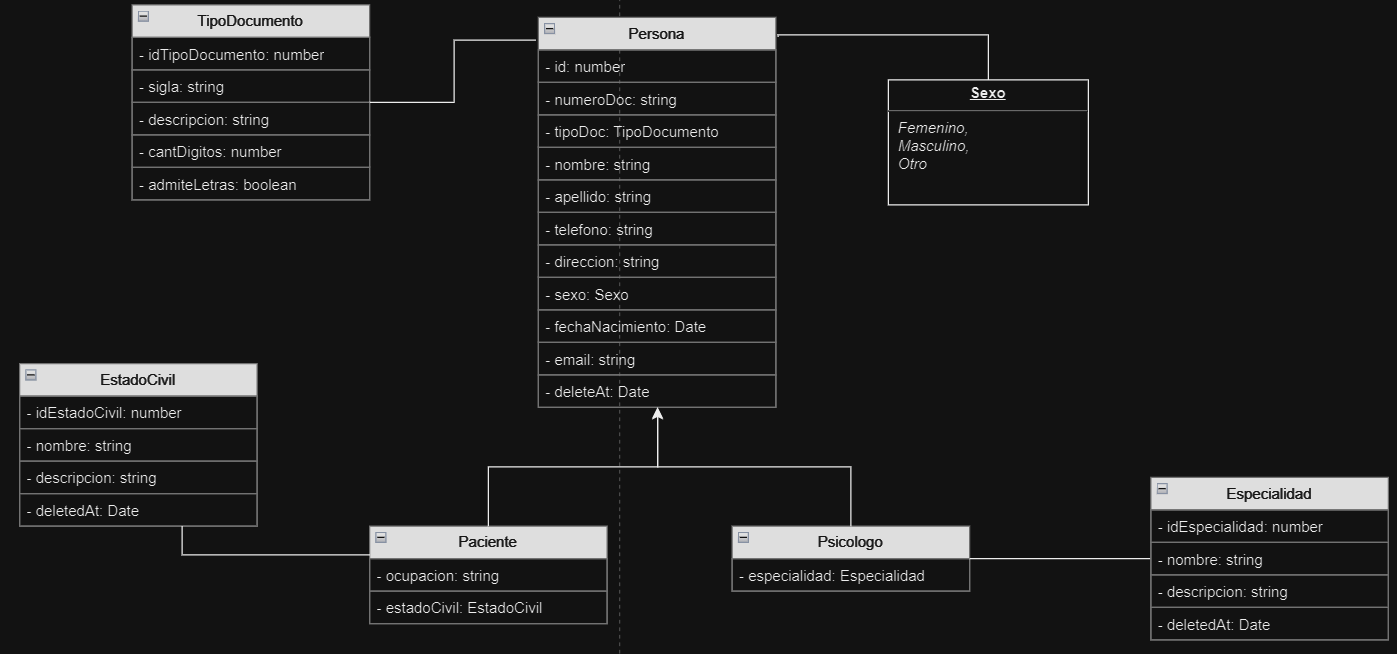
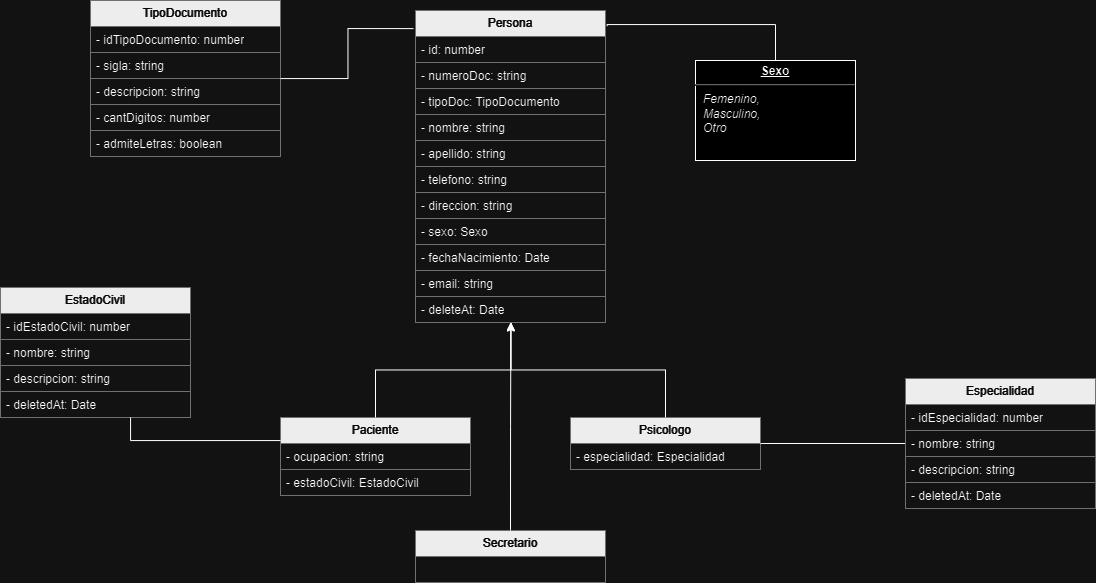
Actualizacion requisitos iteracion 1 y 2

diff --git a/docs/Especificacion_de_Requerimientos.md b/docs/Especificacion_de_Requerimientos.md
@@ -271,20 +271,20 @@ Ninguno
 
 ---
 
-### UC–04 - Consultar Paciente
+### UC–04 - Consultar Pacientes
 
-| UC–04  | Consultar Paciente | |
+| UC–04  | Consultar Pacientes | |
 |--------|--------------------|----|
 | **Objetivos asociados** | - OBJ02-Gestionar pacientes |
 | **Requisitos asociados** | IRQ–01 Información sobre pacientes |
-| **Descripción** | Permite consultar la información de un paciente |
-| **Precondición** | El usuario tiene acceso al sistema y los datos necesarios del paciente |
+| **Descripción** | Permite consultar la información de los pacientes |
+| **Precondición** | El secretario tiene acceso al sistema |
 | **Flujo Principal** | **Paso** | **Acción** |
-| | 1 | El usuario selecciona al paciente a consultar |
-| | 2 | El sistema muestra la información detallada del paciente |
-| **Postcondición** | La información del paciente es visualizada por el usuario |
+| | 1 | El secretario solicita al sistema la lista de los pacientes que estan registrados en el sistema. |
+| | 2 | El sistema le proporciona los datos obtenidos. |
+| **Postcondición** | Los distintos pacientes que estan registrados en el sistema son listados para el usuario. |
 | **Flujo Alternativo** | **Paso** | **Acción** |
-| | 1a | Si el paciente no está registrado, el sistema muestra un mensaje de error |
+| | 2 | El sistema avisa que no se encontraron datos de acuerdo al criterio seleccionado; y solicita que se modifique. En caso contrario, el caso de uso queda sin efecto. |
 | **Rendimiento** | **Paso** | **Cota de tiempo** |
 | | 2 | 1 segundo |
 | **Frecuencia** | 10 veces/día |
@@ -292,6 +292,98 @@ Ninguno
 | **Comentarios** | La consulta de información de pacientes está disponible solo para usuarios autorizados |
 
 ---
+### UC-22 - Registrar Secretario
+
+| UC–22  | Registrar Secretario | |
+|--------|--------------------|----|
+| **Objetivos asociados** | OBJ06-Gestionar Secretario |
+| **Requisitos asociados** | IRQ–03 Información sobre secretario |
+| **Descripción** | Permite registrar un nuevo secretario en el sistema |
+| **Precondición** | El piscologo tiene acceso al sistema y los datos necesarios del secretario |
+| **Flujo Principal** | **Paso** | **Acción** |
+| | 1 | El piscologo ingresa los datos del secretario (nombre, apellido, documento, dirección, teléfono, etc.) |
+| | 2 | El sistema valida los datos ingresados |
+| | 3 | El sistema registra al secretario y confirma el registro |
+| **Postcondición** | El secretario pasa a estar registrado en el sistema |
+| **Flujo Alternativo** | **Paso** | **Acción** |
+| | 3 | Si los datos ingresados no son válidos, el sistema muestra un mensaje de error y permite corregirlos |
+| **Rendimiento** | **Paso** | **Cota de tiempo** |
+| | 3 | 2 segundos |
+| **Frecuencia** | 10 veces/día |
+| **Estabilidad** | alta |
+| **Comentarios** | Si hay algún error en los datos, el sistema permite corregirlos y reintentar el registro |
+
+---
+
+### UC–23 - Modificar Secretario
+
+| UC–23  | Modificar Secretario | |
+|--------|--------------------|----|
+| **Objetivos asociados** | OBJ06-Gestionar Secretario |
+| **Requisitos asociados** | IRQ–03 Información sobre secretario |
+| **Descripción** | Permite modificar la información de un secretario existente |
+| **Precondición** | El piscologo tiene acceso al sistema y los datos necesarios del secretario |
+| **Flujo Principal** | **Paso** | **Acción** |
+| | 1 | El piscologo selecciona al secretario a modificar |
+| | 2 | El sistema muestra los datos actuales del secretario |
+| | 3 | El piscologo modifica los datos necesarios |
+| | 4 | El sistema valida los nuevos datos |
+| | 5 | El sistema actualiza la información del secretario y confirma la modificación |
+| **Postcondición** | Los datos del secretario están actualizados en el sistema |
+| **Flujo Alternativo** | **Paso** | **Acción** |
+| | 5 | Si los datos ingresados no son válidos, el sistema muestra un mensaje de error y permite corregirlos |
+| **Rendimiento** | **Paso** | **Cota de tiempo** |
+| | 5 | 2 segundos |
+| **Frecuencia** | 5 veces/día |
+| **Estabilidad** | alta |
+| **Comentarios** | Si hay algún error en los datos, el sistema permite corregirlos y reintentar la modificación |
+
+---
+
+### UC–25 - Eliminar Secretario
+
+| UC–25  | Eliminar Secretario | |
+|--------|-------------------|----|
+| **Objetivos asociados** | OBJ06-Gestionar Secretario |
+| **Requisitos asociados** | IRQ–03 Información sobre secretario |
+| **Descripción** | Permite dar de baja lógicamente a un secretario del sistema |
+| **Precondición** | El piscologo tiene acceso al sistema y los datos necesarios del secretario |
+| **Flujo Principal** | **Paso** | **Acción** |
+| | 1 | El piscologo selecciona al secretario a eliminar |
+| | 2 | El sistema solicita confirmación para eliminar al secretario |
+| | 3 | El piscologo confirma la eliminación |
+| | 4 | El sistema elimina al secretario y confirma la eliminación |
+| **Postcondición** | El secretario está eliminado del sistema |
+| **Flujo Alternativo** | **Paso** | **Acción** |
+| | 2a | Si el piscologo no confirma la eliminación, el secretario no es eliminado |
+| **Rendimiento** | **Paso** | **Cota de tiempo** |
+| | 4 | 1 segundo |
+| **Frecuencia** | 1 vez/día |
+| **Estabilidad** | alta |
+| **Comentarios** | Si el paciente es eliminado, toda su información es archivada y no se puede acceder a ella a menos que sea reactivada |
+
+---
+
+### UC–24 - Consultar Secretarios
+
+| UC–24  | Consultar Secretarios | |
+|--------|--------------------|----|
+| **Objetivos asociados** | OBJ06-Gestionar Secretario |
+| **Requisitos asociados** | IRQ–03 Información sobre secretario |
+| **Descripción** | Permite consultar la información de los secretarios |
+| **Precondición** | El Psicólogo tiene acceso al sistema |
+| **Flujo Principal** | **Paso** | **Acción** |
+| | 1 | El Psicólogo solicita al sistema la lista de los secretarios que estan registrados en el sistema. |
+| | 2 | El sistema le proporciona los datos obtenidos. |
+| **Postcondición** | Los distintos secretarios que estan registrados en el sistema son listados para el usuario. |
+| **Flujo Alternativo** | **Paso** | **Acción** |
+| | 2 | El sistema avisa que no se encontraron datos de acuerdo al criterio seleccionado; y solicita que se modifique. En caso contrario, el caso de uso queda sin efecto. |
+| **Rendimiento** | **Paso** | **Cota de tiempo** |
+| | 2 | 1 segundo |
+| **Frecuencia** | 10 veces/día |
+| **Estabilidad** | alta |
+| **Comentarios** | La consulta de información de secretarios está disponible solo para usuarios autorizados |
+
 
 ---
 ### UC–35 - Alta de Tipo de Documento
@@ -426,16 +518,16 @@ Ninguno
 ---
 ## Matriz de Rastreabilidad Objetivo/Requisitos
 
-| OBJ/IRQ                 | **OBJ01-Gestión de Psicólogos** | **OBJ02-Gestion de Pacientes** | **OBJ04-Gestionar Parámetros de Sistema** | **OBJ05-Gestionar Seguridad** |
+| OBJ/IRQ                 | **OBJ02-Gestionar Pacientes** | **OBJ04-Gestionar Parámetros de Sistema** | **OBJ05-Gestionar Seguridad** | **OBJ06-Gestionar Secretarios**|
 |:--------------------------|:------------------------:|:------------------------:|:------------------------:|:------------------------:|
-| **IRQ 01**||**X**||||
-| **IRQ 02**||||**X**|**X**|
-| **IRQ 03**|||||**X**|
-| **NFR 01**|**X**|||||
-| **NFR 02**||**X**||||
-| **NFR 03**||**X**||||
-| **NFR 04**||||**X**||
-**NFR 05**|||||**X**|
+| **IRQ 01**|**X**||||
+| **IRQ 02**||**X**|**X**||
+| **IRQ 03**||||**X**|
+| **NFR 01**|**X**||||
+| **NFR 02**||**X**|**X**||
+| **NFR 03**|**X**|**X**|**X**|**X**|
+| **NFR 04**|||**X**||
+**NFR 05**||||**X**|
 ---
 
 ## Glosario de Términos
@@ -448,18 +540,15 @@ Ninguno
 | **Registrar Pacientes** | Caso de uso | Este caso de uso describe los pasos que se debe realizar para registrar un paciente. |
 | **Modificar Pacientes** | Caso de uso | Este caso de uso describe los pasos que se debe realizar para modifcar un paciente. |
 | **Eliminar Pacientes** | Caso de uso | Este caso de uso describe los pasos que se debe realizar para eliminar un paciente del sistema. |
-| **Consultar Pacientes** | Caso de uso | Este caso de uso describe los pasos que se debe realizar para consultar los datos de los paciente del sistema. |
-| **Obtener Países** | Caso de uso | Este caso de uso describe los pasos que se debe realizar para obtener un país mediante una API. |
-| **Consultar Países** | Caso de uso | Este caso de uso describe los pasos que se debe realizar para consultar los paises presentes en el sistema. |
-| **Eliminar Países** | Caso de uso | Este caso de uso describe los pasos que se debe realizar para eliminar un país del sistema. |
+| **Consultar Pacientes** | Caso de uso | Este caso de uso describe los pasos que se debe realizar para consultar los paciente registrados del sistema. |
+| **Registrar Secretarios** | Caso de uso | Este caso de uso describe los pasos que se debe realizar para registrar un secretario. |
+| **Modificar Secretarios** | Caso de uso | Este caso de uso describe los pasos que se debe realizar para modifcar un secretario. |
+| **Eliminar Secretarios** | Caso de uso | Este caso de uso describe los pasos que se debe realizar para eliminar un secretario del sistema. |
+| **Consultar Secretarios** | Caso de uso | Este caso de uso describe los pasos que se debe realizar para consultar los secretario registrados del sistema. |
 | **Alta Tipo de Documento** | Caso de uso | Este caso de uso describe los pasos que se debe realizar para registrar un tipo de documento. |
 | **Modificar Tipos de Documento** | Caso de uso | Este caso de uso describe los pasos que se debe realizar para modifcar un tipo de documento. |
 | **Eliminar Tipo de Documento** | Caso de uso | Este caso de uso describe los pasos que se debe realizar para eliminar un tipo de documento del sistema. |
 | **Consultar Tipos de Documento** | Caso de uso | Este caso de uso describe los pasos que se debe realizar para consultar los tipos de documento presentes en el sistema. |
-| **Obtener Sexo** | Caso de uso | Este caso de uso describe los pasos que se debe realizar para obtener todos los tipos de sexo biologico que tiene una persona mediante una API. |
-| **Modificar Sexo** | Caso de uso | Este caso de uso describe los pasos que se debe realizar para modifcar un tipo de sexo biologico que puede tener una persona. |
-| **Consultar Sexo** | Caso de uso | Este caso de uso describe los pasos que se debe realizar para consultar todos los tipos de sexo biologico que tiene una persona presentes en el sistema. |
-| **Eliminar Sexo** | Caso de uso | Este caso de uso describe los pasos que se debe realizar para eliminar un tipo de sexo biologico que tiene una persona del sistema. |
 
 ## Modelo Conceptual
 ![Modelo Conceptual](/docs/resources/ModeloConceptualDiseñoWeb.png)
@@ -467,13 +556,13 @@ Ninguno
 
 ## U.I.D. - Diagrama de Interacción de Usuario
 
-![](/docs/resources/UID's/UIDAltaModificaciónEliminaciónPaís.png)
+![](/docs/resources/UID's/UIDAltaModificaciónEliminaciónPaciente.png)
 ---
 ![](/docs/resources/UID's/UIDAltaModificaciónEliminaciónTipoDocumento.png)
 ---
-![](/docs/resources/UID's/UIDAltaModificaciónEliminaciónSexo.png)
+![](/docs/resources/UID's/UIDAltaModificaciónEliminaciónSecretario.png)
 ---
-![](/docs/resources/UID's/UIDAltaModificaciónEliminaciónPaciente.png)
+
 ---
 ## Modelo Navegacional
 

diff --git a/docs/Especificacion_de_Requerimientos_Iteracion2.md b/docs/Especificacion_de_Requerimientos_Iteracion2.md
@@ -207,23 +207,23 @@ Ninguno
 
 ---
 
-### UC-20 - Consultar Psicólogo
+### UC–20 - Consultar Psicólogos
 
-| UC-20  | Consultar Psicólogo | |
+| UC–20  | Consultar Psicólogos | |
 |--------|--------------------|----|
 | **Objetivos asociados** | - OBJ01-Gestion de Psicólogos |
 | **Requisitos asociados** | IRQ–01 Información sobre Psicólogos |
-| **Descripción** | Permite consultar la información de un psicólogo |
-| **Precondición** | Un Administrador o otro psicólogo tiene acceso al sistema y los datos necesarios del psicólogo a listar |
+| **Descripción** | Permite consultar la información de los psicólogos |
+| **Precondición** | Un Administrador o otro psicólogo tienen acceso al sistema. |
 | **Flujo Principal** | **Paso** | **Acción** |
-| | 1 | Un Administrador o otro psicólogo selecciona al psicólogo a consultar |
-| | 2 | El sistema muestra la información detallada del psicólogo |
-| **Postcondición** | La información del psicólogo es visualizada por un Administrador o otro psicólogo |
+| | 1 | Un Administrador o otro psicólogo solicita al sistema la lista de los psicólogos que estan registrados en el sistema. |
+| | 2 | El sistema le proporciona los datos obtenidos. |
+| **Postcondición** | Los distintos psicólogos que estan registrados en el sistema son listados para el usuario. |
 | **Flujo Alternativo** | **Paso** | **Acción** |
-| | 1 | Si el psicólogo no está registrado, el sistema muestra un mensaje de error y se termina el caso de uso |
+| | 2 | El sistema avisa que no se encontraron datos de acuerdo al criterio seleccionado; y solicita que se modifique. En caso contrario, el caso de uso queda sin efecto. |
 | **Rendimiento** | **Paso** | **Cota de tiempo** |
-| | - | - |
-| **Frecuencia** | - |
+| | 2 | 1 segundo |
+| **Frecuencia** | 10 veces/día |
 | **Estabilidad** | alta |
 | **Comentarios** | La consulta de información de psicólogos está disponible solo para usuarios autorizados |
 
@@ -483,7 +483,7 @@ Ninguno
 ---
 ## Matriz de Rastreabilidad Objetivo/Requisitos
 
-| OBJ/IRQ                 | **OBJ01-Gestión de Psicólogos** | **OBJ02-Gestion de Pacientes** | **OBJ04-Gestionar Parámetros de Sistema** | **OBJ05-Gestionar Seguridad** |
+| OBJ/IRQ                 | **OBJ01-Gestionar Psicólogos** | **OBJ02-Gestionar Pacientes** | **OBJ04-Gestionar Parámetros de Sistema** | **OBJ05-Gestionar Seguridad** |
 |:--------------------------|:------------------------:|:------------------------:|:------------------------:|:------------------------:|
 | **IRQ 01**|**X**|||||
 | **IRQ 02**|||**X**|**X**||
@@ -524,6 +524,8 @@ Ninguno
 ![](/docs/resources/UID's/UIDAltaModificaciónEliminaciónEspecialidad.png)
 ---
 ![](/docs/resources/UID's/UIDAltaModificaciónEliminaciónPsicologo.png)
+---
+![](/docs/resources/UID's/UIDAltaModificaciónEliminaciónPaciente2daIteracion.png)
 ---
 ## Modelo Navegacional
 

diff --git a/docs/casosDeUso.md b/docs/casosDeUso.md
@@ -3,7 +3,7 @@
 - ### UC-01 - Registrar Paciente
 - ### UC-02 - Modificar Paciente
 - ### UC-03 - Eliminar Paciente
-- ### UC-04 - Consultar Paciente
+- ### UC-04 - Consultar Pacientes
 - ### UC-05 - Registrar Sesión
 - ### UC-06 - Consultar Sesión
 - ### UC-07 - Cancelar Sesión
@@ -19,11 +19,11 @@
 - ### UC-17 - Adelantar Sesión de un Paciente en Caso de Cancelación
 - ### UC-18 - Registrar Psicólogo
 - ### UC-19 - Modificar Psicólogo
-- ### UC-20 - Consultar Psicólogo
+- ### UC-20 - Consultar Psicólogos
 - ### UC-21 - Eliminar Psicólogo
 - ### UC-22 - Registrar Secretario
 - ### UC-23 - Modificar Secretario
-- ### UC-24 - Consultar Secretario
+- ### UC-24 - Consultar Secretarios
 - ### UC-25 - Eliminar Secretario
 - ### UC-26 - Obtener Países
 - ### UC-27 - Consultar Países
